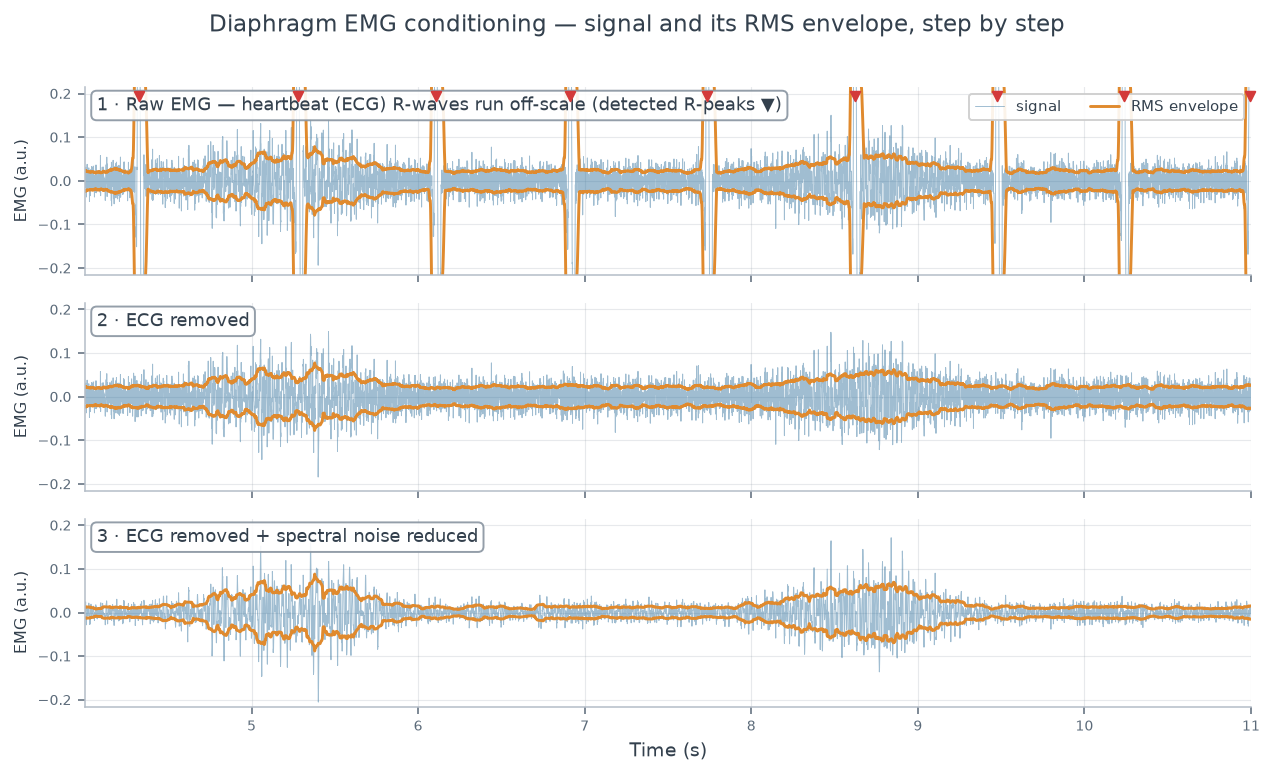
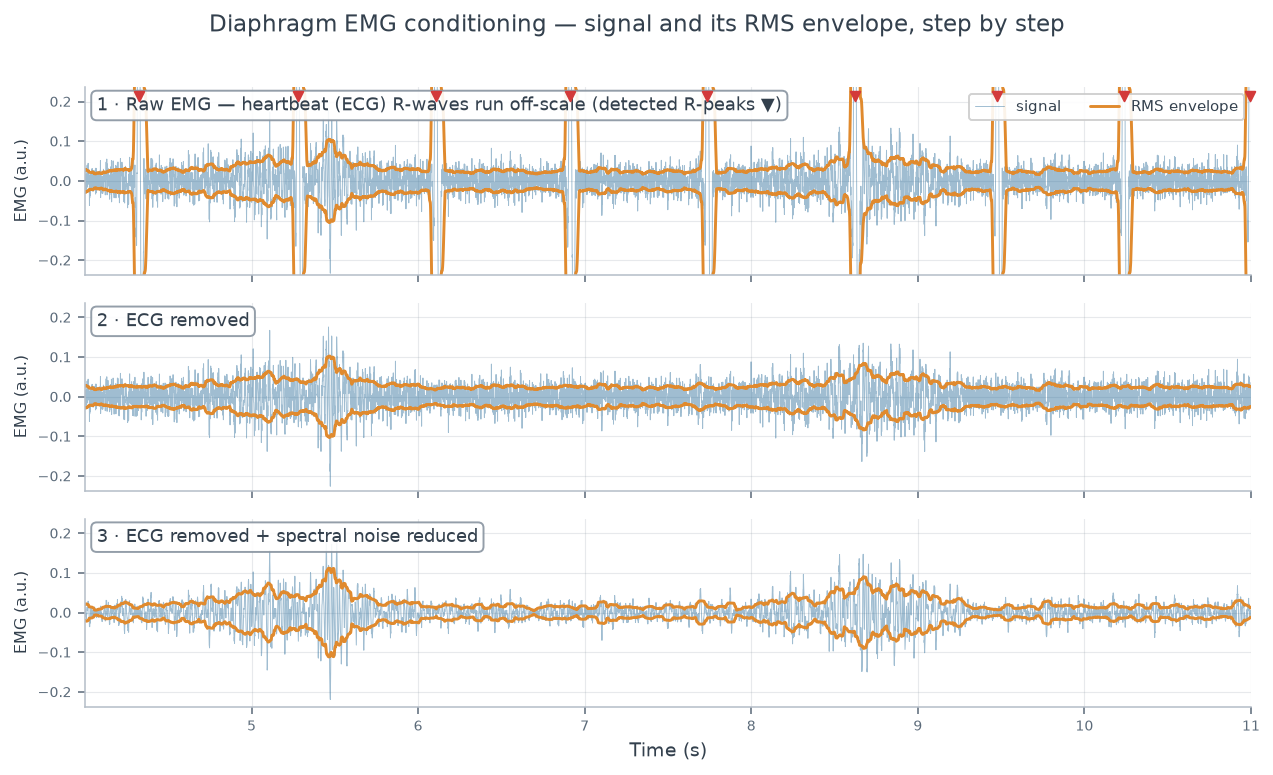
Sample EMG: recruited motor-unit interference pattern (more realistic morphology)
The onboarding/README sample's diaphragm EMG was amplitude-modulated band-limited noise — spectrally right but temporally featureless. Model it now as a recruited motor-unit interference pattern: a drive-gated Poisson train of finite surface-MUAP wavelets whose spike density AND size grow with inspiratory drive (Henneman size principle), over a down-weighted carrier, so the burst fills in with a ragged, spiky texture and thins in expiration.

Surgical + deterministic: the MUAP texture draws from a DEDICATED rng, so the carriers, noise floors and all pressures stay byte-identical to before — flow/volume/poes/pgas/pdi unchanged (Campbell/WOB/drift figures untouched), and the [0.1,0.9]s noise-reference window is byte-identical (spectral noise-reduction demo preserved). ECG still dwarfs the EMG (R~1.0 vs burst~0.18-0.23 < the 0.4 detector); 9 breaths; spectral peak ~33 Hz. Shared by the onboarding door and the README/website figures, so both get the better EMG. 513 unit+golden pass.

diff --git a/src/respmech/core/sample.py b/src/respmech/core/sample.py
@@ -57,6 +57,11 @@ EMG_SCALE = (0.85, 1.0, 0.90)  # per-channel EMG amplitude (centre-weighted)
 ECG_SCALE = (0.55, 1.0, 0.70)  # per-channel ECG prominence (strongest on the middle electrode)
 ECG_R_OVER_EMG = 5.0           # R-wave peak as a multiple of the EMG burst peak (real: 5–20×);
                                # this is why removal matters — an R-wave inflates the EMG RMS
+EMG_CARRIER_WEIGHT = 0.45      # weight of the smooth band-limited interference base (the
+                               # unresolvable many-small-units background)
+EMG_TEXTURE_WEIGHT = 0.20      # weight of the superimposed MUAP-spike texture (the ragged,
+                               # drive-recruited morphology). Together they keep the burst peak
+                               # ~3·burst_peak while the spikes give the interference pattern.
 FILENAME = "sample_recording.csv"
 DETECT_CHANNEL = 1             # 0-based index of the strongest-ECG EMG channel
 
@@ -91,6 +96,43 @@ def _emg_carrier(n, rng):
     h = np.where((f >= 20.0) & (f <= 250.0), (f / 30.0) * np.exp(-f / 45.0), 0.0)
     y = np.fft.irfft(x * h, n=n)
     return y / (y.std() or 1.0)
+
+
+def _muap_wavelet(dur_s=0.028, f0=38.0):
+    """A single surface motor-unit action potential (MUAP) template. Real needle MUAPs are
+    sharp triphasic spikes, but volume conduction through chest-wall tissue low-passes the
+    *surface* MUAP, so its energy sits in the diaphragm-EMG band and rolls off well before
+    the removable >120 Hz instrument floor. Built as the first derivative of a Gaussian (the
+    dominant biphasic swing) plus a small second-derivative lobe (the third phase); the
+    Gaussian width sets the spectral centre (~f0). Zero-mean (no per-spike DC step), then
+    peak-normalised so the per-spike amplitude is carried by the spike train, not the shape."""
+    m = int(round(dur_s * FS))
+    t = (np.arange(m) - m // 2) / FS
+    sig = 1.0 / (2.0 * np.pi * f0)
+    g = np.exp(-0.5 * (t / sig) ** 2)
+    d1 = -(t / sig ** 2) * g                                     # biphasic (1st derivative)
+    d2 = ((t ** 2 - sig ** 2) / sig ** 4) * g                    # triphasic (2nd derivative)
+    w = d1 + 0.35 * sig * d2
+    return w / (np.max(np.abs(w)) or 1.0)
+
+
+def _muap_texture(n, rng, drive, wavelet, rate_max=380.0, size_k=1.4, amp_jitter=0.28):
+    """The recruited-motor-unit interference pattern: a drive-gated Poisson train of MUAPs
+    convolved with the finite ``wavelet``. As neural ``drive`` rises through an inspiration,
+    more units fire (spike DENSITY ∝ ``rate_max·drive``, thinned Bernoulli) AND larger units
+    recruit (per-spike SIZE ∝ ``1 + size_k·drive``, the size principle), so the pattern fills
+    in — the ragged, biphasic-spiky texture of real surface EMG rather than smooth noise.
+    ``drive`` is 0 in the quiet lead-in, so no MUAPs land there. Uses only the seeded ``rng``
+    (deterministic). Random per-spike polarity + log-normal jitter give the interference look."""
+    p = np.clip(rate_max * drive / FS, 0.0, 1.0)                 # per-sample firing probability
+    idx = np.flatnonzero(rng.random(n) < p)                      # MUAP onset samples
+    imp = np.zeros(n)
+    if idx.size:
+        mag = 1.0 + size_k * drive[idx]                         # size principle: bigger with drive
+        jit = np.exp(amp_jitter * rng.standard_normal(idx.size))
+        sign = np.where(rng.random(idx.size) < 0.5, -1.0, 1.0)  # mixed-polarity units
+        imp[idx] = sign * mag * jit
+    return np.convolve(imp, wavelet, mode="same")
 
 
 def _qrs():
@@ -191,20 +233,36 @@ def _signals():
     ecg = _ecg_signal(beats, n)                                    # sharp QRS on the EMG
     cardiac = _cardiac_pressure(beats, n)                          # smooth pulse on the pressures
 
-    # EMG channels: band-limited-noise carrier, inspiratory burst over a tonic floor,
-    # + the heartbeat artefact (centre-weighted) + a coloured noise floor
+    # EMG channels: a smooth band-limited-noise carrier (the unresolvable interference base)
+    # PLUS a drive-gated train of MUAP-like spikes (the ragged recruited-motor-unit texture),
+    # an inspiratory burst over a tonic floor, + the heartbeat artefact (centre-weighted) +
+    # a coloured noise floor.
     burst_peak = 0.06
     tonic = 0.15
-    # The band-limited-noise carrier peaks at ~3× its RMS, so the instantaneous EMG burst
-    # peak on the strongest channel is ~3·burst_peak; the R-wave is ECG_R_OVER_EMG× that,
-    # i.e. it dwarfs the EMG (the whole point of ECG removal).
+    # The carrier peaks at ~3× its RMS and the MUAP spikes add sharp deflections on top; the
+    # two weights (EMG_CARRIER_WEIGHT/EMG_TEXTURE_WEIGHT) keep the instantaneous EMG burst peak
+    # on the strongest channel ~3·burst_peak. The R-wave is ECG_R_OVER_EMG× that, i.e. it dwarfs
+    # the EMG (the whole point of ECG removal).
     r_peak = ECG_R_OVER_EMG * 3.0 * burst_peak
+    muap = _muap_wavelet()                                        # one surface-MUAP template, shared
+    # A DEDICATED stream for the MUAP texture, so adding it does not perturb the carrier/floor/
+    # pressure draws from the main rng: everything except the EMG burst morphology stays
+    # byte-identical to the pre-texture sample (same noise reference, same Campbell/drift figures).
+    tex_rng = np.random.default_rng(20260712)
     emg = []
     for ch in range(N_EMG):
+        # neural drive: 0 in the quiet lead-in, a low tonic floor while breathing, rising to ~1
+        # at the inspiratory peak. It modulates BOTH the carrier amplitude AND the MUAP firing
+        # density/size, so amplitude and spike density grow together — recruitment fill-in.
+        drive = tonic * breathing + (1.0 - tonic) * env
         carrier = _emg_carrier(n, rng)
-        amp = EMG_SCALE[ch] * burst_peak * (tonic * breathing + (1.0 - tonic) * env)
+        texture = _muap_texture(n, tex_rng, drive, muap)         # drive-gated Poisson MUAP train
+        texture[:nlead] = 0.0                                    # lead-in stays a pure noise reference
+        amp = EMG_SCALE[ch] * burst_peak * drive
+        signal = (EMG_CARRIER_WEIGHT * amp * carrier
+                  + EMG_TEXTURE_WEIGHT * EMG_SCALE[ch] * burst_peak * texture)
         floor = _instrument_noise(n, rng, amp=0.35 * EMG_SCALE[ch] * burst_peak)
-        emg.append(amp * carrier + floor + ECG_SCALE[ch] * r_peak * ecg)
+        emg.append(signal + floor + ECG_SCALE[ch] * r_peak * ecg)
 
     # pressures: elastic + resistive, a smooth cardiac ripple, and low-frequency wander
     poes = poes_el + RESISTANCE * flow + 0.7 * cardiac + _physio_noise(n, rng, amp=0.6)
